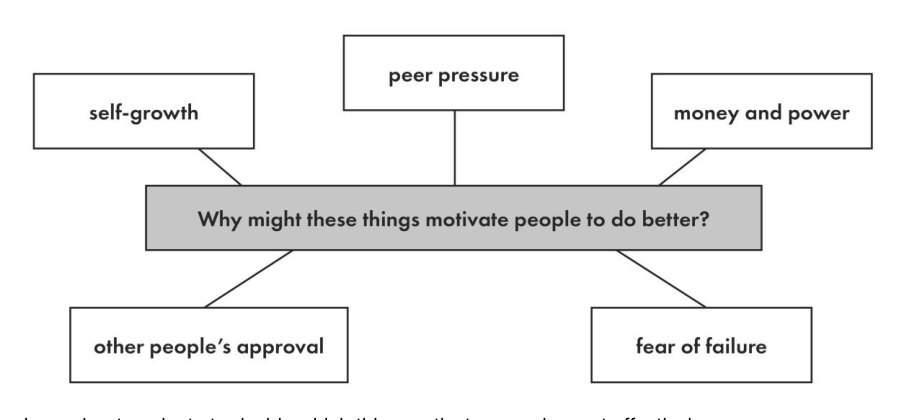
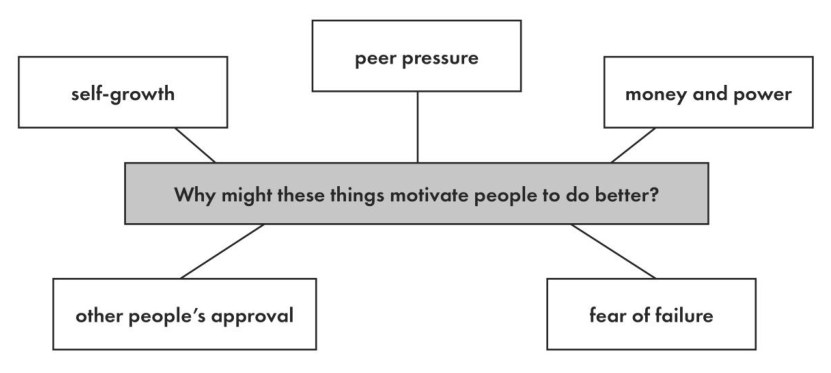
Speaking test: las cuatro escalas salen del documento oficial de examinadores 2020 y la lámina C1 End-of-course sin texto colado
Verificación pedida por Paolo («¿has tomado algo del B2 para el C1?»): los
tres guiones C1 (sample paper 1 oficial, Ready for C1 Mid y End) coinciden
con sus PDF de origen, texto y láminas. Lo que sí parecía un préstamo es
la escala: en Cambridge las bandas son un continuo (banda 1 de C1 = banda 3
de B2 = banda 5 de B1). Ahora los descriptores se construyen desde esa
tabla común («Instructions to Speaking Examiners from 2020», pág. 2) y las
Global Achievement Scale de cada examen (págs. 43-55), con el texto exacto:
cambian matices en B1/B2/C1 (familiar topics vs. everyday situations,
«very little repetition», el Global 5 de C1).

La lámina de la Parte 3 del End-of-course arrastraba una línea del pie de
página: recortada por la caja real de la imagen en el PDF.

diff --git a/speaking-test-data.js b/speaking-test-data.js
@@ -552,73 +552,82 @@ window.SPEAKING_TEST = (function(){
 
   /* ---- Escalas analíticas de Cambridge (bandas 1 · 3 · 5). Las bandas 2 y 4
      «comparten rasgos» de las contiguas; 0 = por debajo de la banda 1.
-     Fuente: las escalas públicas de los handbooks de A2 Key, B1 Preliminary,
-     B2 First y C1 Advanced. ---- */
+     Fuente (verificada el 23-sep-2026): «Instructions to Speaking Examiners
+     from 2020» (Cambridge, MS_ISE_2020, en CAMBRIDGE_MAIN_SUITE/FCE): la
+     escala analítica común (pág. 2) y la Global Achievement Scale de cada
+     examen (págs. 43-55). Las escalas son UN continuo: la banda 5 de un
+     nivel es la banda 3 del siguiente y la banda 1 del anterior — por eso
+     la banda 1 de C1 dice lo mismo que la banda 3 de B2; no es un préstamo.
+     En C1 y C2 Cambridge separa Grammatical y Lexical Resource: aquí van
+     juntos en «Grammar and Vocabulary» para compartir nombres con el
+     corrector del mock (SPEAKING_RUBRICS). ---- */
   const GV='Grammar and Vocabulary', DM='Discourse Management', PR='Pronunciation', IC='Interactive Communication', GA='Global Achievement';
+
+  /* Filas de la escala común, de A1 a C2 (pág. 2 del documento). */
+  const ROW = {
+    A1: { gv:'Shows only limited control of a few grammatical forms. Uses a vocabulary of isolated words and phrases.',
+          dm:null,
+          pr:'Has very limited control of phonological features and is often unintelligible.',
+          ic:'Has considerable difficulty maintaining simple exchanges. Requires additional prompting and support.' },
+    A2: { gv:'Shows sufficient control of simple grammatical forms. Uses appropriate vocabulary to talk about everyday situations.',
+          dm:null,
+          pr:'Is mostly intelligible, despite limited control of phonological features.',
+          ic:'Maintains simple exchanges, despite some difficulty. Requires prompting and support.' },
+    B1: { gv:'Shows a good degree of control of simple grammatical forms. Uses a range of appropriate vocabulary when talking about familiar topics.',
+          dm:'Produces responses which are extended beyond short phrases, despite hesitation. Contributions are mostly relevant, but there may be some repetition. Uses basic cohesive devices.',
+          pr:'Is mostly intelligible, and has some control of phonological features at both utterance and word levels.',
+          ic:'Initiates and responds appropriately. Keeps the interaction going with very little prompting and support.' },
+    B2: { gv:'Shows a good degree of control of simple grammatical forms, and attempts some complex grammatical forms. Uses appropriate vocabulary to give and exchange views, on a range of familiar topics.',
+          dm:'Produces extended stretches of language despite some hesitation. Contributions are relevant and there is very little repetition. Uses a range of cohesive devices.',
+          pr:'Is intelligible. Intonation is generally appropriate. Sentence and word stress is generally accurately placed. Individual sounds are generally articulated clearly.',
+          ic:'Initiates and responds appropriately. Maintains and develops the interaction and negotiates towards an outcome with very little support.' },
+    C1: { gv:'Grammatical resource: shows a good degree of control of a range of simple and complex grammatical forms. Lexical resource: uses a range of appropriate vocabulary to give and exchange views on familiar and unfamiliar topics.',
+          dm:'Produces extended stretches of language with very little hesitation. Contributions are relevant and there is a clear organisation of ideas. Uses a range of cohesive devices and discourse markers.',
+          pr:'Is intelligible. Intonation is appropriate. Sentence and word stress is accurately placed. Individual sounds are articulated clearly.',
+          ic:'Initiates and responds appropriately, linking contributions to those of other speakers. Maintains and develops the interaction and negotiates towards an outcome.' },
+    C2: { gv:'Grammatical resource: maintains control of a wide range of grammatical forms. Lexical resource: uses a wide range of appropriate vocabulary to give and exchange views on unfamiliar and abstract topics.',
+          dm:'Produces extended stretches of language with ease and with very little hesitation. Contributions are relevant, coherent and varied. Uses a wide range of cohesive devices and discourse markers.',
+          pr:'Is intelligible. Phonological features are used effectively to convey and enhance meaning.',
+          ic:'Interacts with ease, linking contributions to those of other speakers. Widens the scope of the interaction and negotiates towards an outcome.' }
+  };
+  /* Banda 5 = fila del nivel superior · 3 = la del nivel · 1 = la del inferior. */
+  const scale = (hi, mid, lo, k) => ({ 5:ROW[hi][k], 3:ROW[mid][k], 1:ROW[lo][k] });
 
   const RUBRICS = {
     A2: { exam:'A2 Key', criteria:[GV,PR,IC], global:GA, d:{
-      [GV]:{5:'Shows a good degree of control of simple grammatical forms. Uses a range of appropriate vocabulary when talking about everyday situations.',
-            3:'Shows sufficient control of simple grammatical forms. Uses appropriate vocabulary to talk about everyday situations.',
-            1:'Shows only limited control of a few grammatical forms. Uses a vocabulary of isolated words and phrases.'},
-      [PR]:{5:'Is mostly intelligible, and has some control of phonological features at both utterance and word levels.',
-            3:'Is mostly intelligible, despite limited control of phonological features.',
-            1:'Has very limited control of phonological features and is often unintelligible.'},
-      [IC]:{5:'Maintains simple exchanges. Requires very little prompting and support.',
-            3:'Maintains simple exchanges, despite some difficulty. Requires prompting and support.',
-            1:'Has considerable difficulty maintaining simple exchanges. Requires additional prompting and support.'},
+      [GV]: scale('B1','A2','A1','gv'),
+      [PR]: scale('B1','A2','A1','pr'),
+      [IC]: scale('B1','A2','A1','ic'),
       [GA]:{5:'Handles communication in everyday situations, despite hesitation. Constructs longer utterances but is not able to use complex language except in well-rehearsed utterances.',
             3:'Conveys basic meaning in very familiar everyday situations. Produces utterances which tend to be very short – words or phrases – with frequent hesitation and pauses.',
             1:'Has difficulty conveying basic meaning even in very familiar everyday situations. Responses are limited to short phrases or isolated words with frequent hesitation and pauses.'}
     }},
     B1: { exam:'B1 Preliminary', criteria:[GV,DM,PR,IC], global:GA, d:{
-      [GV]:{5:'Shows a good degree of control of simple grammatical forms, and attempts some complex grammatical forms. Uses a range of appropriate vocabulary to give and exchange views on familiar topics.',
-            3:'Shows a good degree of control of simple grammatical forms. Uses a range of appropriate vocabulary when talking about familiar topics.',
-            1:'Shows sufficient control of simple grammatical forms. Uses a limited range of appropriate vocabulary to talk about familiar topics.'},
-      [DM]:{5:'Produces extended stretches of language despite some hesitation. Contributions are relevant despite some repetition. Uses a range of cohesive devices.',
-            3:'Produces responses which are extended beyond short phrases, despite hesitation. Contributions are mostly relevant, but there may be some repetition. Uses basic cohesive devices.',
+      [GV]: scale('B2','B1','A2','gv'),
+      /* La fila A2 no tiene Discourse Management: la banda 1 de B1 sale del handbook de B1 Preliminary. */
+      [DM]:{5:ROW.B2.dm, 3:ROW.B1.dm,
             1:'Produces responses which are characterised by short phrases and frequent hesitation. Repeats information or digresses from the topic.'},
-      [PR]:{5:'Is intelligible. Intonation is generally appropriate. Sentence and word stress is generally accurately placed. Individual sounds are generally articulated clearly.',
-            3:'Is mostly intelligible, and has some control of phonological features at both utterance and word levels.',
-            1:'Is mostly intelligible, despite limited control of phonological features.'},
-      [IC]:{5:'Initiates and responds appropriately. Maintains and develops the interaction and negotiates towards an outcome with very little support.',
-            3:'Initiates and responds appropriately. Keeps the interaction going with very little prompting and support.',
-            1:'Maintains simple exchanges, despite some difficulty. Requires prompting and support.'},
+      [PR]: scale('B2','B1','A2','pr'),
+      [IC]: scale('B2','B1','A2','ic'),
       [GA]:{5:'Handles communication on familiar topics, despite some hesitation. Organises extended discourse but occasionally produces utterances that lack coherence, and some inaccuracies and inappropriate usage occur.',
-            3:'Handles communication in everyday situations, despite hesitation. Constructs longer utterances but is not able to use complex language except in well-rehearsed utterances.',
-            1:'Conveys basic meaning in very familiar everyday situations. Produces utterances which tend to be very short – words or phrases – with frequent hesitation and pauses.'}
+            3:'Handles communication on familiar topics, despite hesitation. Constructs longer utterances but is not able to use complex language except in well-rehearsed utterances.',
+            1:'Conveys basic meaning on very familiar or highly predictable topics. Produces utterances which tend to be very short – words or phrases – with frequent hesitation and pauses.'}
     }},
     B2: { exam:'B2 First', criteria:[GV,DM,PR,IC], global:GA, d:{
-      [GV]:{5:'Shows a good degree of control of a range of simple and some complex grammatical forms. Uses a range of appropriate vocabulary to give and exchange views on a wide range of familiar topics.',
-            3:'Shows a good degree of control of simple grammatical forms, and attempts some complex grammatical forms. Uses a range of appropriate vocabulary to give and exchange views on a range of familiar topics.',
-            1:'Shows a good degree of control of simple grammatical forms. Uses a range of appropriate vocabulary when talking about everyday situations.'},
-      [DM]:{5:'Produces extended stretches of language with very little hesitation. Contributions are relevant and there is a clear organisation of ideas. Uses a range of cohesive devices and discourse markers.',
-            3:'Produces extended stretches of language despite some hesitation. Contributions are relevant and there is very little repetition. Uses a range of cohesive devices.',
-            1:'Produces responses which are extended beyond short phrases, despite hesitation. Contributions are mostly relevant, despite some repetition. Uses basic cohesive devices.'},
-      [PR]:{5:'Is intelligible. Intonation is appropriate. Sentence and word stress is accurately placed. Individual sounds are articulated clearly.',
-            3:'Is intelligible. Intonation is generally appropriate. Sentence and word stress is generally accurately placed. Individual sounds are generally articulated clearly.',
-            1:'Is mostly intelligible, and has some control of phonological features at both utterance and word levels.'},
-      [IC]:{5:'Initiates and responds appropriately, linking contributions to those of other speakers. Maintains and develops the interaction and negotiates towards an outcome.',
-            3:'Initiates and responds appropriately. Maintains and develops the interaction and negotiates towards an outcome with very little support.',
-            1:'Initiates and responds appropriately. Keeps the interaction going with very little prompting and support.'},
+      [GV]: scale('C1','B2','B1','gv'),
+      [DM]: scale('C1','B2','B1','dm'),
+      [PR]: scale('C1','B2','B1','pr'),
+      [IC]: scale('C1','B2','B1','ic'),
       [GA]:{5:'Handles communication on a range of familiar topics, with very little hesitation. Uses accurate and appropriate linguistic resources to express ideas and produce extended discourse that is generally coherent.',
             3:'Handles communication on familiar topics, despite some hesitation. Organises extended discourse but occasionally produces utterances that lack coherence, and some inaccuracies and inappropriate usage occur.',
-            1:'Handles communication in everyday situations, despite hesitation. Constructs longer utterances but is not able to use complex language except in well-rehearsed utterances.'}
+            1:'Handles communication on familiar topics, despite hesitation. Constructs longer utterances but is not able to use complex language except in well-rehearsed utterances.'}
     }},
     C1: { exam:'C1 Advanced', criteria:[GV,DM,PR,IC], global:GA, d:{
-      [GV]:{5:'Grammatical resource: maintains control of a wide range of grammatical forms. Lexical resource: uses a wide range of appropriate vocabulary to give and exchange views on unfamiliar and abstract topics.',
-            3:'Grammatical resource: shows a good degree of control of a range of simple and some complex grammatical forms. Lexical resource: uses a range of appropriate vocabulary to give and exchange views on a range of familiar and unfamiliar topics.',
-            1:'Grammatical resource: shows a good degree of control of simple grammatical forms, and attempts some complex grammatical forms. Lexical resource: uses a range of appropriate vocabulary to give and exchange views on a range of familiar topics.'},
-      [DM]:{5:'Produces extended stretches of language with ease and with very little hesitation. Contributions are relevant, coherent and varied. Uses a wide range of cohesive devices and discourse markers.',
-            3:'Produces extended stretches of language with very little hesitation. Contributions are relevant and there is a clear organisation of ideas. Uses a range of cohesive devices and discourse markers.',
-            1:'Produces extended stretches of language despite some hesitation. Contributions are relevant and there is very little repetition. Uses a range of cohesive devices.'},
-      [PR]:{5:'Is intelligible. Phonological features are used effectively to convey and enhance meaning.',
-            3:'Is intelligible. Intonation is appropriate. Sentence and word stress is accurately placed. Individual sounds are articulated clearly.',
-            1:'Is intelligible. Intonation is generally appropriate. Sentence and word stress is generally accurately placed. Individual sounds are generally articulated clearly.'},
-      [IC]:{5:'Interacts with ease, linking contributions to those of other speakers. Widens the scope of the interaction and negotiates towards an outcome.',
-            3:'Initiates and responds appropriately, linking contributions to those of other speakers. Maintains and develops the interaction and negotiates towards an outcome.',
-            1:'Initiates and responds appropriately. Maintains and develops the interaction and negotiates towards an outcome with very little support.'},
-      [GA]:{5:'Handles communication on a wide range of familiar and unfamiliar topics, with very little hesitation. Uses accurate and appropriate linguistic resources with ease to express complex ideas and concepts and produce extended and coherent discourse.',
+      [GV]: scale('C2','C1','B2','gv'),
+      [DM]: scale('C2','C1','B2','dm'),
+      [PR]: scale('C2','C1','B2','pr'),
+      [IC]: scale('C2','C1','B2','ic'),
+      [GA]:{5:'Handles communication on a wide range of topics, including unfamiliar and abstract ones, with very little hesitation. Uses accurate and appropriate linguistic resources to express complex ideas and concepts and produce extended discourse that is coherent and easy to follow.',
             3:'Handles communication on a range of familiar and unfamiliar topics, with very little hesitation. Uses accurate and appropriate linguistic resources to express ideas and produce extended discourse that is generally coherent.',
             1:'Handles communication on familiar topics, despite some hesitation. Organises extended discourse but occasionally produces utterances that lack coherence, and some inaccuracies and inappropriate usage occur.'}
     }}
